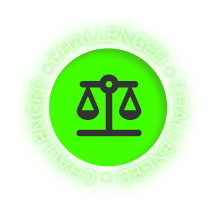
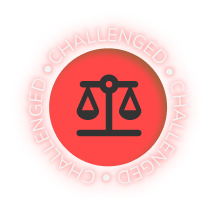
Add challenged status Update challenged seal

diff --git a/src/pagePartials/badge/preview/ChallengeStatus.tsx b/src/pagePartials/badge/preview/ChallengeStatus.tsx
@@ -1,0 +1,75 @@
+import { useSearchParams } from 'next/navigation'
+
+import { Box, Button, Divider, Stack, Typography } from '@mui/material'
+import { useTranslation } from 'next-export-i18n'
+import { colors } from 'thebadge-ui-library'
+
+import { useChallengeProvider } from '@/src/providers/challengeProvider'
+
+export default function ChallengeStatus() {
+  const { t } = useTranslation()
+  const { challenge } = useChallengeProvider()
+
+  const searchParams = useSearchParams()
+  const typeId = searchParams.get('typeId')
+  const ownerAddress = searchParams.get('ownerAddress')
+
+  if (!typeId || !ownerAddress) {
+    throw `No typeId/ownerAddress provided us URL query param`
+  }
+
+  return (
+    <Stack gap={3} mt={5}>
+      <Divider color={colors.white} />
+      <Box display="flex" justifyContent="space-between">
+        <Typography color={'#FF4949'} variant="dAppTitle1">
+          {t('badge.viewBadge.challengeStatus.title')}
+        </Typography>
+        <Button
+          color="error"
+          onClick={() => challenge(typeId, ownerAddress)}
+          size="medium"
+          sx={{ fontSize: '11px !important', borderRadius: 2 }}
+          variant="outlined"
+        >
+          Add Evidence
+        </Button>
+      </Box>
+      <Box display="flex" gap={4} justifyContent="space-between">
+        <Stack flex="1" gap={3}>
+          <Typography color={'#FF4949'} variant="dAppTitle5">
+            {t('badge.viewBadge.challengeStatus.challenged')}
+          </Typography>
+          <Typography variant="dAppBody4">
+            {t('badge.viewBadge.challengeStatus.requestType')}
+          </Typography>
+          <Typography variant="dAppBody4">
+            {t('badge.viewBadge.challengeStatus.challenger')}
+          </Typography>
+          <Typography variant="dAppBody4">
+            {t('badge.viewBadge.challengeStatus.requester')}
+          </Typography>
+          <Typography variant="dAppBody4">
+            {t('badge.viewBadge.challengeStatus.arbitrator')}
+          </Typography>
+          <Typography variant="dAppBody4">
+            {t('badge.viewBadge.challengeStatus.disputeId')}
+          </Typography>
+          <Divider color={colors.white} />
+        </Stack>
+        <Stack flex="1" gap={3}>
+          <Typography color={'#FF4949'} variant="dAppTitle5">
+            {t('badge.viewBadge.challengeStatus.badgeDetails')}
+          </Typography>
+          <Typography variant="dAppBody4">{t('badge.viewBadge.challengeStatus.user')}</Typography>
+          <Typography variant="dAppBody4">{t('badge.viewBadge.challengeStatus.amount')}</Typography>
+          <Typography variant="dAppBody4">
+            {t('badge.viewBadge.challengeStatus.userAddress')}
+          </Typography>
+          <Typography variant="dAppBody4">{t('badge.viewBadge.challengeStatus.file')}</Typography>
+          <Divider color={colors.white} sx={{ mt: 'auto' }} />
+        </Stack>
+      </Box>
+    </Stack>
+  )
+}

diff --git a/pages/badge/[typeId]/[ownerAddress].tsx b/pages/badge/[typeId]/[ownerAddress].tsx
@@ -3,8 +3,9 @@ import { useRouter } from 'next/navigation'
 
 import { Box, Button, Stack, Tooltip } from '@mui/material'
 
-import { withPageGenericSuspense } from '@/src/components/helpers/SafeSuspense'
+import SafeSuspense, { withPageGenericSuspense } from '@/src/components/helpers/SafeSuspense'
 import BadgeOwnedPreview from '@/src/pagePartials/badge/preview/BadgeOwnedPreview'
+import ChallengeStatus from '@/src/pagePartials/badge/preview/ChallengeStatus'
 import { useChallengeProvider } from '@/src/providers/challengeProvider'
 import { useWeb3Connection } from '@/src/providers/web3ConnectionProvider'
 import { NextPageWithLayout } from '@/types/next'
@@ -49,6 +50,9 @@ const ViewBadge: NextPageWithLayout = () => {
             Challenge
           </Button>
         </Box>
+        <SafeSuspense>
+          <ChallengeStatus />
+        </SafeSuspense>
       </Stack>
     </Box>
   )
